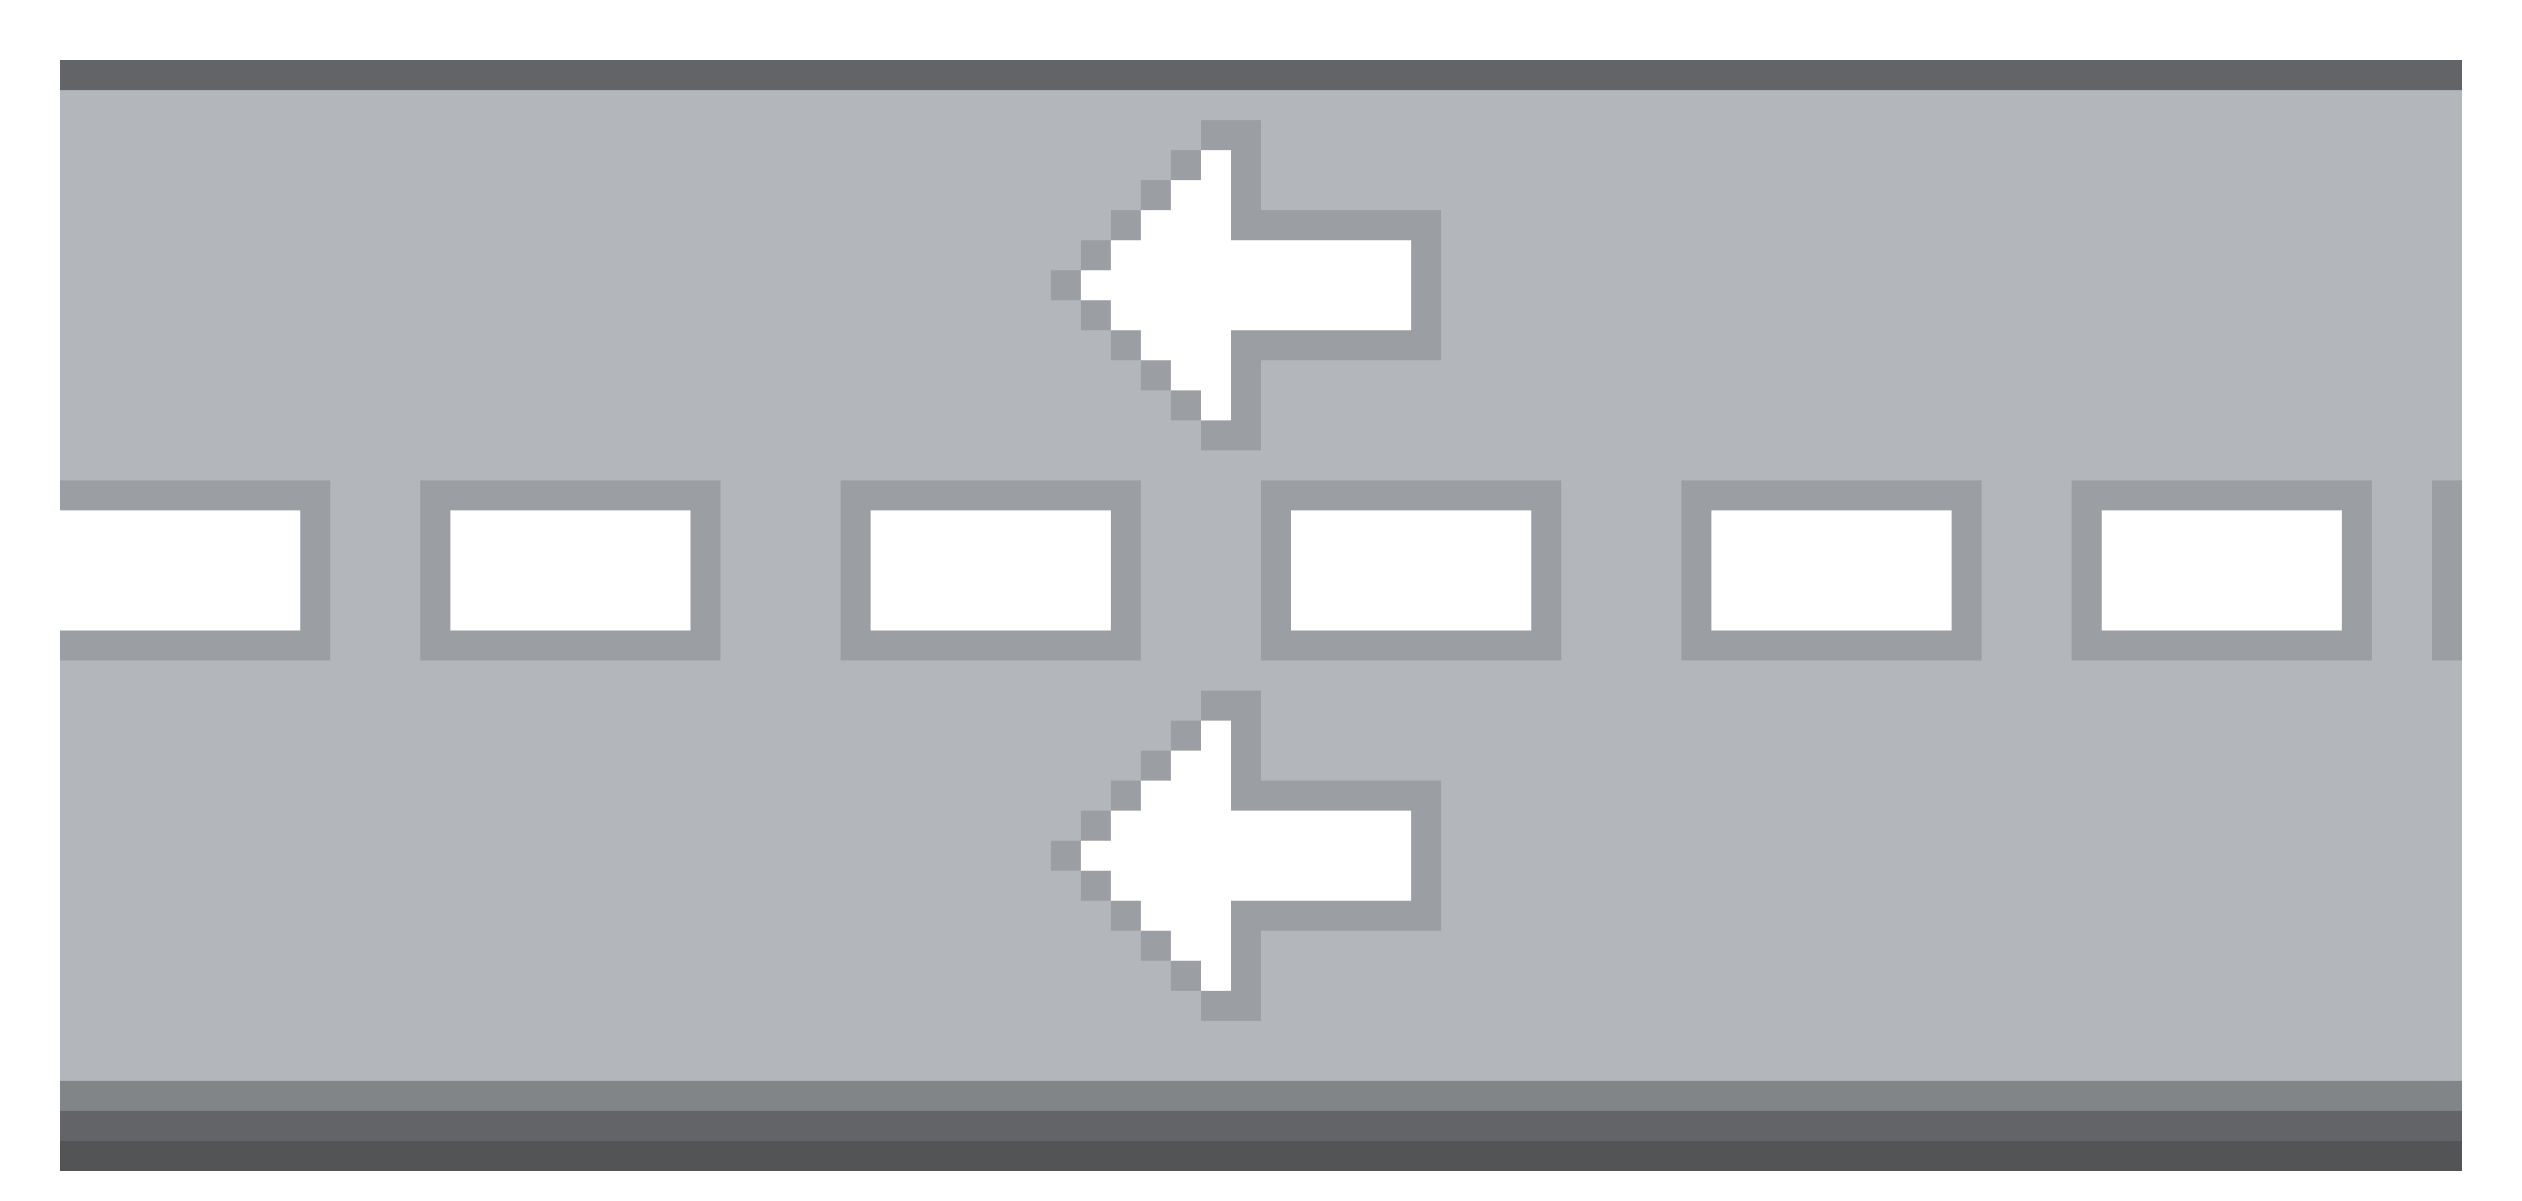
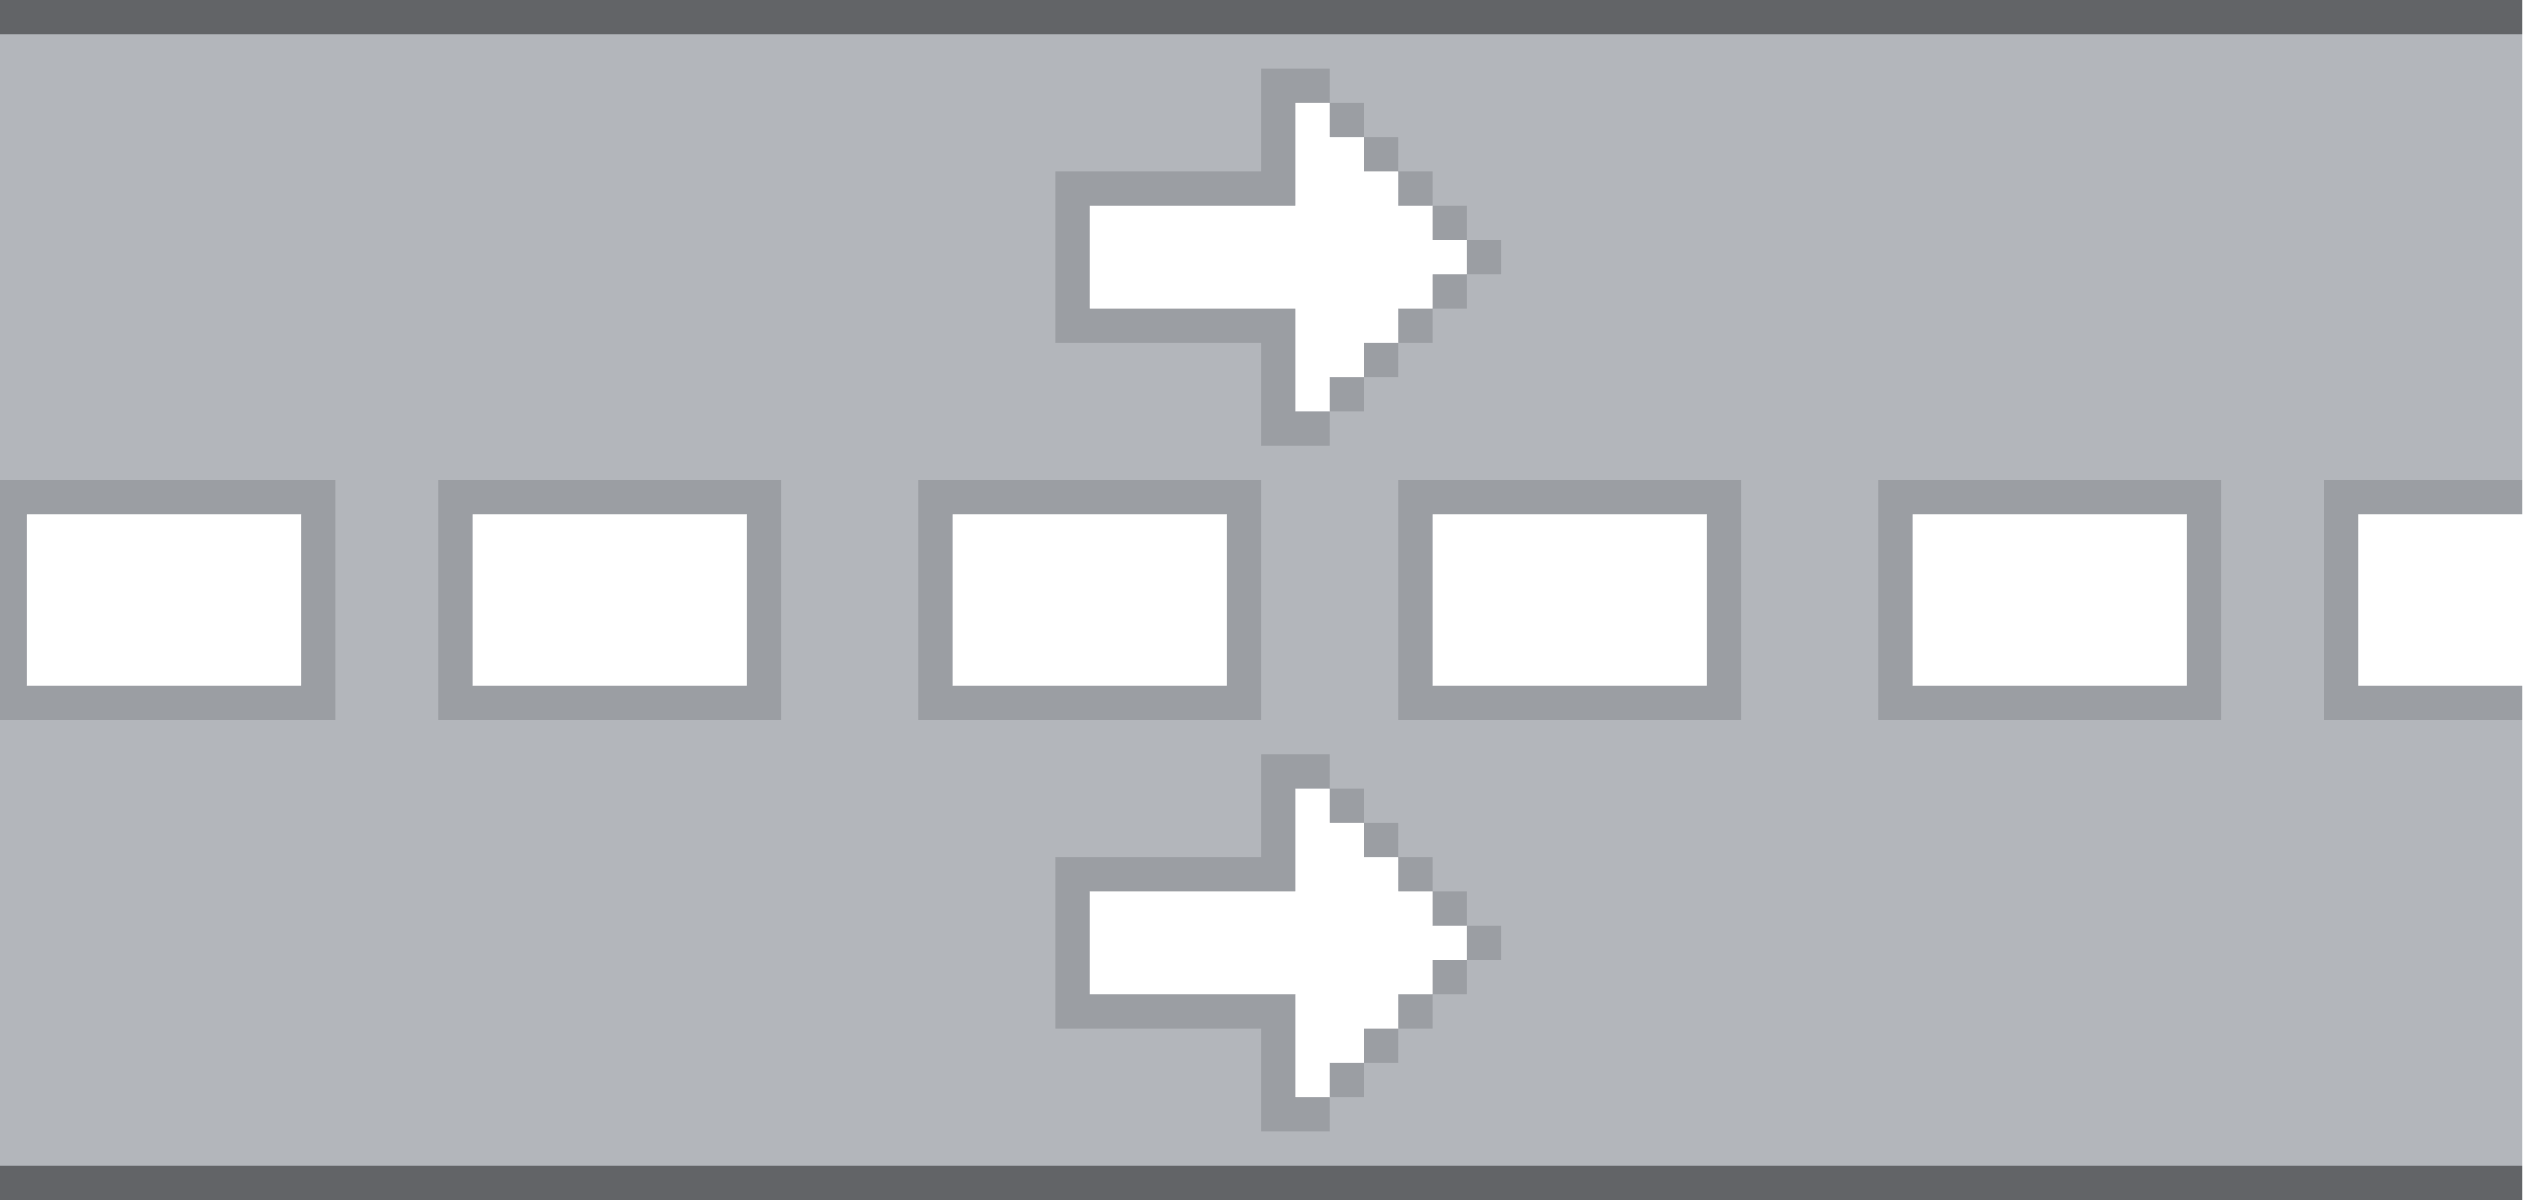
formatting

diff --git a/css/PhasePageStyles.css b/css/PhasePageStyles.css
@@ -135,3 +135,62 @@ phase page content
     /* setting text style */
     font-size: 20px;
 }
+
+/* 
+----------------------------------------------------------------
+adding responsive design 
+----------------------------------------------------------------
+*/
+@media screen and (max-width: 1000px) {
+/* style used to determine layout of content for planning phase pages*/
+.phaseLayoutContainer {
+    /* setting anchors */
+    text-align: center;
+    justify-content: center;
+
+    /* setting grid */
+    display: grid;
+    grid-template-columns: 1fr ;
+    grid-template-rows: .5fr 3fr .5fr;
+    grid-gap: 0px;
+
+    /* grid-gap: 10px; */
+
+    /* setting size */
+    height: 75%;
+
+    /* setting padding and margins */
+    /* padding: 10px;
+    margin-bottom: 10px; */
+}
+    .phaseLayoutContainer nav  {
+        /* setting anchors and layout */
+        display: flex;
+        flex-wrap: wrap;
+        align-items: center;
+        justify-content: center;
+        text-justify: center; 
+
+    
+        /* background info */
+        background-position: center;
+        background-repeat: no-repeat;
+        background-size:  cover;
+   
+    }
+    
+    .phaseLayoutContainer nav a {
+        /* setting anchors and layout */
+        justify-content: center;  
+    }
+    
+    /* makes the background be road point left */
+    .leftRoadBackground{
+        background-image: url(../images/verticalRoadU.png);
+    }
+    /* makes the background be road point left */
+    .rightRoadBackground{
+        background-image: url(../images/verticalRoadD.png);
+    }
+
+}

diff --git a/css/SiteStyle.css b/css/SiteStyle.css
@@ -12,9 +12,8 @@ overall style of the site
 body {
     overflow-y: hidden;
     background-color: var(--mainBG);
-    height: 100vh;
-    /* margin-bottom: 20px; */
-
+    height: 90vh;
+    /* margin-bottom: 10px; */
 }
 
 /* 
@@ -126,9 +125,14 @@ adding responsive design
 */
 @media screen and (max-width: 1000px) {
 
+    body {
+        overflow-y: auto;
+        background-color: var(--mainBG);
+        height: 100%;
+    }
     /* 
-    container for holding overview of site navigation
-    this is used in index.html 
+        container for holding overview of site navigation
+        this is used in index.html 
     */
     .roadMapContainer {
         /* setting anchors */
@@ -146,7 +150,7 @@ adding responsive design
 
     .betweenPhaseTab {
         /* setting background */
-        background-image: url(../images/verticalRoad.png);
+        background-image: url(../images/verticalRoadD.png);
         background-position: center;
         background-size: cover;
     }
